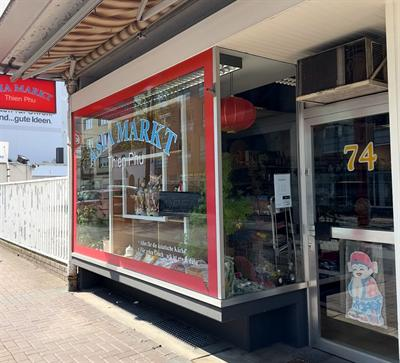
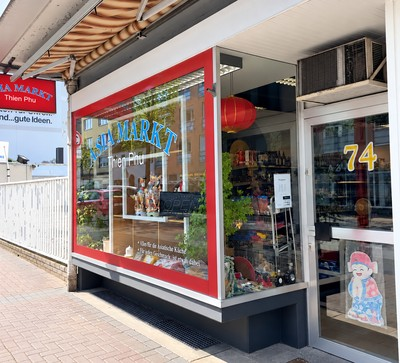
Aktualisiere Sortimentsbeispiele und freigegebene Ladenfotos

diff --git a/sortiment.html b/sortiment.html
@@ -8,20 +8,20 @@
     <meta name="referrer" content="strict-origin-when-cross-origin">
 
     <title>Asiatisches Sortiment in Langenfeld | Asia Markt Thien Phu</title>
-    <meta name="description" content="Das Sortiment des Asia Markt Thien Phu in Langenfeld (Rheinland): frische Kräuter &amp; Gemüse, Nudeln &amp; Ramen, Saucen, Tofu, Tee, Snacks und Tiefkühlprodukte.">
+    <meta name="description" content="Asiatisches Sortiment in Langenfeld: frische Kräuter und Tofu, Reis, Buldak und Shin Ramyun, Currypasten, Gochujang, Mochi, Matcha und tiefgekühlte Gyoza.">
     <link rel="canonical" href="https://www.asiamarkt.info/sortiment.html">
 
     <meta name="theme-color" content="#FFFBF5">
-    <link rel="icon" href="/favicon.ico?v=2026092405" sizes="16x16 32x32 48x48">
-    <link rel="icon" type="image/png" sizes="192x192" href="/assets/images/icon-192.png?v=2026092405">
-    <link rel="apple-touch-icon" href="/assets/images/apple-touch-icon.png?v=2026092405">
-    <link rel="manifest" href="/site.webmanifest?v=2026092405">
+    <link rel="icon" href="/favicon.ico?v=2026102201" sizes="16x16 32x32 48x48">
+    <link rel="icon" type="image/png" sizes="192x192" href="/assets/images/icon-192.png?v=2026102201">
+    <link rel="apple-touch-icon" href="/assets/images/apple-touch-icon.png?v=2026102201">
+    <link rel="manifest" href="/site.webmanifest?v=2026102201">
 
     <meta property="og:type" content="website">
     <meta property="og:site_name" content="Asia Markt Thien Phu">
     <meta property="og:locale" content="de_DE">
     <meta property="og:title" content="Asiatisches Sortiment in Langenfeld | Asia Markt Thien Phu">
-    <meta property="og:description" content="Das Sortiment des Asia Markt Thien Phu in Langenfeld (Rheinland): frische Kräuter &amp; Gemüse, Nudeln &amp; Ramen, Saucen, Tofu, Tee, Snacks und Tiefkühlprodukte.">
+    <meta property="og:description" content="Asiatisches Sortiment in Langenfeld: frische Kräuter und Tofu, Reis, Buldak und Shin Ramyun, Currypasten, Gochujang, Mochi, Matcha und tiefgekühlte Gyoza.">
     <meta property="og:url" content="https://www.asiamarkt.info/sortiment.html">
     <meta property="og:image" content="https://www.asiamarkt.info/assets/images/og-image.jpg">
     <meta property="og:image:width" content="1200">
@@ -29,10 +29,10 @@
     <meta name="twitter:card" content="summary_large_image">
 
     <link rel="preload" as="font" type="font/woff2" href="assets/fonts/lora-700-latin.woff2" crossorigin>
-    <link rel="stylesheet" href="assets/css/fonts.css?v=2026092405">
-    <link rel="stylesheet" href="assets/css/site.css?v=2026092405">
+    <link rel="stylesheet" href="assets/css/fonts.css?v=2026102201">
+    <link rel="stylesheet" href="assets/css/site.css?v=2026102201">
 
-    <script src="assets/js/site.js?v=2026092405" defer></script>
+    <script src="assets/js/site.js?v=2026102201" defer></script>
     <!-- Statische Mobilnavigation bei deaktiviertem JavaScript, ohne Lade-Sprung. -->
     <noscript><style>
         @media (max-width: 900px) {
@@ -83,7 +83,7 @@
 
     <section class="sortiment-kopf">
         <h1>Unser Sortiment</h1>
-        <p class="lead">Frische Zutaten, Nudeln, Saucen und vieles mehr für Ihre asiatische Küche. Die Auswahl kann wechseln.</p>
+        <p class="lead">Von frischen Kräutern und Reis bis zu koreanischen Ramen, Mochi und Gyoza: Zutaten für Ihre asiatische Küche. Die Auswahl kann wechseln.</p>
         <p class="verfuegbarkeit">Einen bestimmten Artikel gesucht? <a href="tel:+4921731065590">Rufen Sie kurz an, wir schauen nach.</a></p>
     </section>
 
@@ -91,27 +91,27 @@
         <div>
             <section class="warengruppe" id="frisches">
                 <h2>Frische Kräuter, Gemüse und Tofu</h2>
-                <p>Koriander, Thai-Basilikum, Zitronengras, Wasserspinat, Ingwer, grüne Papaya und Thai-Auberginen. Dazu Edamame, Enoki-Pilze, Süßkartoffeln, Yamswurzeln, Kochbananen und Pandanblätter sowie frischer und Silken Tofu. Regelmäßige Frischlieferungen.</p>
+                <p>Koriander, Thai-Basilikum, Krapao, Zitronengras, Galgant, Wasserspinat und Ingwer. Dazu grüne Papaya, Thai-Auberginen, Okra, Chili, Enoki-Pilze, Süßkartoffeln, Yamswurzeln, Kochbananen und Pandanblätter sowie frischer Tofu und Seidentofu. Regelmäßige Frischlieferungen.</p>
             </section>
             <section class="warengruppe" id="nudeln">
-                <h2>Nudeln und Ramen</h2>
-                <p>Bekannte Marken wie SamYang und Mama, dazu Udon, Ramen, Reis- und Glasnudeln für schnelle Alltagsgerichte und Suppen.</p>
+                <h2>Reis, Nudeln und Ramen</h2>
+                <p>Samyang Buldak, etwa Carbonara und Cheese, Nongshim Shin Ramyun und MAMA. Dazu Udon, Reis- und Glasnudeln für schnelle Gerichte und Suppen, Reispapier für Sommerrollen sowie Jasmin-, Sushi- und Klebreis.</p>
             </section>
             <section class="warengruppe" id="saucen">
                 <h2>Saucen und Würzmittel</h2>
-                <p>Sojasoße, Teriyaki, Fischsauce und Currypasten, passend für Wokgerichte, Marinaden und Dips.</p>
+                <p>Sojasauce, Teriyaki, Fischsauce, Hoisin und Sriracha, dazu Currypasten, Gochujang (koreanische Chilipaste), Kimchi und Kokosmilch. Für Wokgerichte, Currys, Marinaden und Dips.</p>
             </section>
             <section class="warengruppe" id="getraenke">
                 <h2>Tee und Getränke</h2>
-                <p>Grüner Tee, Jasmintee und beliebte asiatische Erfrischungsgetränke.</p>
+                <p>Grüner Tee, Jasmintee, Grünteepulver mit Matcha und Matcha Latte. Dazu Kokoswasser und FOCO-Getränke mit Kokos, Mango oder Litschi.</p>
             </section>
             <section class="warengruppe" id="snacks">
                 <h2>Snacks und Süßigkeiten</h2>
-                <p>Mochi, Reiscracker und asiatische Süßigkeiten.</p>
+                <p>Mochi, zum Beispiel mit Matcha, Erdnuss oder roter Bohne. Dazu Reiscracker, Algensnacks, getrocknete Mango und weitere asiatische Süßigkeiten.</p>
             </section>
             <section class="warengruppe" id="tiefkuehl">
                 <h2>Tiefkühlprodukte</h2>
-                <p>Fisch, Garnelen, Muscheln und Tintenfisch. Fisch-, Rind- und Schweinebällchen sowie Gyoza für Hot Pot, Suppen und Pfannengerichte.</p>
+                <p>Gyoza von bibigo und Allgroo, Edamame und Mochi-Eis. Dazu Fisch, Garnelen, Muscheln, Tintenfisch sowie Fisch-, Rind- und Schweinebällchen für Hot Pot, Suppen und Pfannengerichte.</p>
             </section>
         </div>
         <p class="zeiten-hinweis">Nur Beispiele, im Laden steht mehr. Kein Online-Shop, alles gibt es vor Ort.</p>

diff --git a/index.html b/index.html
@@ -16,10 +16,10 @@
 
     <!-- Favicons & technische Meta -->
     <meta name="theme-color" content="#FFFBF5">
-    <link rel="icon" href="/favicon.ico?v=2026092405" sizes="16x16 32x32 48x48">
-    <link rel="icon" type="image/png" sizes="192x192" href="/assets/images/icon-192.png?v=2026092405">
-    <link rel="apple-touch-icon" href="/assets/images/apple-touch-icon.png?v=2026092405">
-    <link rel="manifest" href="/site.webmanifest?v=2026092405">
+    <link rel="icon" href="/favicon.ico?v=2026102201" sizes="16x16 32x32 48x48">
+    <link rel="icon" type="image/png" sizes="192x192" href="/assets/images/icon-192.png?v=2026102201">
+    <link rel="apple-touch-icon" href="/assets/images/apple-touch-icon.png?v=2026102201">
+    <link rel="manifest" href="/site.webmanifest?v=2026102201">
 
     <!-- Open Graph / Twitter Card -->
     <meta property="og:type" content="website">
@@ -78,10 +78,10 @@
     </script>
 
     <link rel="preload" as="font" type="font/woff2" href="assets/fonts/lora-700-latin.woff2" crossorigin>
-    <link rel="stylesheet" href="assets/css/fonts.css?v=2026092405">
-    <link rel="stylesheet" href="assets/css/site.css?v=2026092405">
+    <link rel="stylesheet" href="assets/css/fonts.css?v=2026102201">
+    <link rel="stylesheet" href="assets/css/site.css?v=2026102201">
 
-    <script src="assets/js/site.js?v=2026092405" defer></script>
+    <script src="assets/js/site.js?v=2026102201" defer></script>
     <!-- Statische Mobilnavigation bei deaktiviertem JavaScript, ohne Lade-Sprung. -->
     <noscript><style>
         @media (max-width: 900px) {
@@ -186,32 +186,32 @@
     <section class="bahn sortiment-vorschau">
         <div>
             <h2>Das führen wir</h2>
-            <p class="sortiment-einleitung">Sechs Bereiche. Die ganze Liste steht im Sortiment.</p>
+            <p class="sortiment-einleitung">Von frischen Kräutern bis zu koreanischen Ramen. Mehr Beispiele finden Sie im Sortiment.</p>
         </div>
         <div class="kategorien">
             <div>
                 <p class="titel">Frische Kräuter, Gemüse und Tofu</p>
-                <p class="bsp">Koriander, Zitronengras, Pak Choi, Ingwer, Tofu</p>
+                <p class="bsp">Koriander, Thai-Basilikum, Zitronengras, Pak Choi, Ingwer, Tofu</p>
             </div>
             <div>
-                <p class="titel">Nudeln und Ramen</p>
-                <p class="bsp">SamYang, Mama, Udon, Reis- und Glasnudeln</p>
+                <p class="titel">Reis, Nudeln und Ramen</p>
+                <p class="bsp">Buldak, Shin Ramyun, MAMA, Udon, Reis- und Glasnudeln, Jasminreis</p>
             </div>
             <div>
                 <p class="titel">Saucen und Würzmittel</p>
-                <p class="bsp">Soja, Fischsauce, Currypasten, Teriyaki</p>
+                <p class="bsp">Sojasauce, Fischsauce, Currypasten, Teriyaki, Sriracha, Gochujang</p>
             </div>
             <div>
                 <p class="titel">Tee und Getränke</p>
-                <p class="bsp">Grüner Tee, Jasmintee, asiatische Erfrischungen</p>
+                <p class="bsp">Grüner Tee, Jasmintee, Matcha Latte, Kokoswasser, FOCO-Getränke</p>
             </div>
             <div>
                 <p class="titel">Snacks und Süßigkeiten</p>
-                <p class="bsp">Mochi, Reiscracker, asiatische Süßigkeiten</p>
+                <p class="bsp">Mochi, Reiscracker, Algensnacks, asiatische Süßigkeiten</p>
             </div>
             <div>
                 <p class="titel">Tiefkühlprodukte</p>
-                <p class="bsp">Garnelen, Muscheln, Gyoza, Fischbällchen</p>
+                <p class="bsp">Garnelen, Muscheln, Gyoza, Fischbällchen, Edamame, Mochi-Eis</p>
             </div>
         </div>
         <p class="sortiment-link"><a href="sortiment.html">Zum ganzen Sortiment</a></p>
@@ -247,17 +247,17 @@
 
     <section class="bahn laden-einblicke">
         <div class="galerie-2">
-            <img src="assets/images/schaufenster.jpg" width="1200" height="750" class="foto foto-16-10"
-                 srcset="assets/images/schaufenster-480.jpg 480w,
-                         assets/images/schaufenster-800.jpg 800w,
-                         assets/images/schaufenster.jpg 1200w"
+            <img src="assets/images/ladenraum.jpg" width="1200" height="750" class="foto foto-16-10"
+                 srcset="assets/images/ladenraum-480.jpg 480w,
+                         assets/images/ladenraum-800.jpg 800w,
+                         assets/images/ladenraum.jpg 1200w"
                  sizes="(max-width: 760px) calc(100vw - 44px), 672px"
-                 alt="Schaufenster des Asia Markt Thien Phu aus der Nähe, mit roten Lampions und dem Schriftzug ASIA MARKT Thien Phu"
+                 alt="Blick in den Verkaufsraum mit gefüllten Warenregalen und den Tiefkühltruhen in der Mitte"
                  loading="lazy" decoding="async">
-            <img src="assets/images/laden-eingang.jpg" width="1200" height="1089" class="foto foto-eingang"
-                 srcset="assets/images/laden-eingang-400.jpg 400w,
-                         assets/images/laden-eingang-700.jpg 700w,
-                         assets/images/laden-eingang.jpg 1200w"
+            <img src="assets/images/laden-eingang.jpg?v=2026102201" width="1200" height="1089" class="foto foto-eingang"
+                 srcset="assets/images/laden-eingang-400.jpg?v=2026102201 400w,
+                         assets/images/laden-eingang-700.jpg?v=2026102201 700w,
+                         assets/images/laden-eingang.jpg?v=2026102201 1200w"
                  sizes="(max-width: 760px) calc(100vw - 44px), 464px"
                  alt="Eingang des Asia Markt Thien Phu an der Hauptstraße 74"
                  loading="lazy" decoding="async">

diff --git a/ueber-uns.html b/ueber-uns.html
@@ -12,10 +12,10 @@
     <link rel="canonical" href="https://www.asiamarkt.info/ueber-uns.html">
 
     <meta name="theme-color" content="#FFFBF5">
-    <link rel="icon" href="/favicon.ico?v=2026092405" sizes="16x16 32x32 48x48">
-    <link rel="icon" type="image/png" sizes="192x192" href="/assets/images/icon-192.png?v=2026092405">
-    <link rel="apple-touch-icon" href="/assets/images/apple-touch-icon.png?v=2026092405">
-    <link rel="manifest" href="/site.webmanifest?v=2026092405">
+    <link rel="icon" href="/favicon.ico?v=2026102201" sizes="16x16 32x32 48x48">
+    <link rel="icon" type="image/png" sizes="192x192" href="/assets/images/icon-192.png?v=2026102201">
+    <link rel="apple-touch-icon" href="/assets/images/apple-touch-icon.png?v=2026102201">
+    <link rel="manifest" href="/site.webmanifest?v=2026102201">
 
     <meta property="og:type" content="website">
     <meta property="og:site_name" content="Asia Markt Thien Phu">
@@ -29,10 +29,10 @@
     <meta name="twitter:card" content="summary_large_image">
 
     <link rel="preload" as="font" type="font/woff2" href="assets/fonts/lora-700-latin.woff2" crossorigin>
-    <link rel="stylesheet" href="assets/css/fonts.css?v=2026092405">
-    <link rel="stylesheet" href="assets/css/site.css?v=2026092405">
+    <link rel="stylesheet" href="assets/css/fonts.css?v=2026102201">
+    <link rel="stylesheet" href="assets/css/site.css?v=2026102201">
 
-    <script src="assets/js/site.js?v=2026092405" defer></script>
+    <script src="assets/js/site.js?v=2026102201" defer></script>
     <!-- Statische Mobilnavigation bei deaktiviertem JavaScript, ohne Lade-Sprung. -->
     <noscript><style>
         @media (max-width: 900px) {
@@ -86,10 +86,10 @@
             <h1>Der Laden</h1>
             <p class="laden-einleitung">Seit 2007 an der Hauptstraße. Ein Familienbetrieb, kein Filialist.</p>
         </div>
-        <img src="assets/images/laden-eingang.jpg" width="1200" height="1089" class="foto foto-eingang"
-             srcset="assets/images/laden-eingang-400.jpg 400w,
-                     assets/images/laden-eingang-700.jpg 700w,
-                     assets/images/laden-eingang.jpg 1200w"
+        <img src="assets/images/laden-eingang.jpg?v=2026102201" width="1200" height="1089" class="foto foto-eingang"
+             srcset="assets/images/laden-eingang-400.jpg?v=2026102201 400w,
+                     assets/images/laden-eingang-700.jpg?v=2026102201 700w,
+                     assets/images/laden-eingang.jpg?v=2026102201 1200w"
              sizes="(max-width: 980px) calc(100vw - 44px), 480px"
              alt="Eingang und Schaufenster des Asia Markt Thien Phu an der Hauptstraße 74"
              loading="eager" decoding="async" fetchpriority="high">

diff --git a/datenschutz.html b/datenschutz.html
@@ -14,10 +14,10 @@
     <link rel="canonical" href="https://www.asiamarkt.info/datenschutz.html">
     <!-- Favicons & technische Meta -->
     <meta name="theme-color" content="#FDFBF7">
-    <link rel="icon" href="/favicon.ico?v=2026092405" sizes="16x16 32x32 48x48">
-    <link rel="icon" type="image/png" sizes="192x192" href="/assets/images/icon-192.png?v=2026092405">
-    <link rel="apple-touch-icon" href="/assets/images/apple-touch-icon.png?v=2026092405">
-    <link rel="manifest" href="/site.webmanifest?v=2026092405">
+    <link rel="icon" href="/favicon.ico?v=2026102201" sizes="16x16 32x32 48x48">
+    <link rel="icon" type="image/png" sizes="192x192" href="/assets/images/icon-192.png?v=2026102201">
+    <link rel="apple-touch-icon" href="/assets/images/apple-touch-icon.png?v=2026102201">
+    <link rel="manifest" href="/site.webmanifest?v=2026102201">
     <!-- Open Graph / Twitter Card -->
     <meta property="og:type" content="website">
     <meta property="og:site_name" content="Asia Markt Thien Phu">
@@ -68,10 +68,10 @@
     }
     </script>
     <link rel="preload" as="font" type="font/woff2" href="assets/fonts/lora-700-latin.woff2" crossorigin>
-    <link rel="stylesheet" href="assets/css/fonts.css?v=2026092405">
-    <link rel="stylesheet" href="assets/css/site.css?v=2026092405">
+    <link rel="stylesheet" href="assets/css/fonts.css?v=2026102201">
+    <link rel="stylesheet" href="assets/css/site.css?v=2026102201">
 
-    <script src="assets/js/site.js?v=2026092405" defer></script>
+    <script src="assets/js/site.js?v=2026102201" defer></script>
     <!-- Statische Mobilnavigation bei deaktiviertem JavaScript, ohne Lade-Sprung. -->
     <noscript><style>
         @media (max-width: 900px) {

diff --git a/impressum.html b/impressum.html
@@ -14,10 +14,10 @@
     <link rel="canonical" href="https://www.asiamarkt.info/impressum.html">
     <!-- Favicons & technische Meta -->
     <meta name="theme-color" content="#FDFBF7">
-    <link rel="icon" href="/favicon.ico?v=2026092405" sizes="16x16 32x32 48x48">
-    <link rel="icon" type="image/png" sizes="192x192" href="/assets/images/icon-192.png?v=2026092405">
-    <link rel="apple-touch-icon" href="/assets/images/apple-touch-icon.png?v=2026092405">
-    <link rel="manifest" href="/site.webmanifest?v=2026092405">
+    <link rel="icon" href="/favicon.ico?v=2026102201" sizes="16x16 32x32 48x48">
+    <link rel="icon" type="image/png" sizes="192x192" href="/assets/images/icon-192.png?v=2026102201">
+    <link rel="apple-touch-icon" href="/assets/images/apple-touch-icon.png?v=2026102201">
+    <link rel="manifest" href="/site.webmanifest?v=2026102201">
     <!-- Open Graph / Twitter Card -->
     <meta property="og:type" content="website">
     <meta property="og:site_name" content="Asia Markt Thien Phu">
@@ -68,10 +68,10 @@
     }
     </script>
     <link rel="preload" as="font" type="font/woff2" href="assets/fonts/lora-700-latin.woff2" crossorigin>
-    <link rel="stylesheet" href="assets/css/fonts.css?v=2026092405">
-    <link rel="stylesheet" href="assets/css/site.css?v=2026092405">
+    <link rel="stylesheet" href="assets/css/fonts.css?v=2026102201">
+    <link rel="stylesheet" href="assets/css/site.css?v=2026102201">
 
-    <script src="assets/js/site.js?v=2026092405" defer></script>
+    <script src="assets/js/site.js?v=2026102201" defer></script>
     <!-- Statische Mobilnavigation bei deaktiviertem JavaScript, ohne Lade-Sprung. -->
     <noscript><style>
         @media (max-width: 900px) {

diff --git a/kontakt.html b/kontakt.html
@@ -12,10 +12,10 @@
     <link rel="canonical" href="https://www.asiamarkt.info/kontakt.html">
 
     <meta name="theme-color" content="#FFFBF5">
-    <link rel="icon" href="/favicon.ico?v=2026092405" sizes="16x16 32x32 48x48">
-    <link rel="icon" type="image/png" sizes="192x192" href="/assets/images/icon-192.png?v=2026092405">
-    <link rel="apple-touch-icon" href="/assets/images/apple-touch-icon.png?v=2026092405">
-    <link rel="manifest" href="/site.webmanifest?v=2026092405">
+    <link rel="icon" href="/favicon.ico?v=2026102201" sizes="16x16 32x32 48x48">
+    <link rel="icon" type="image/png" sizes="192x192" href="/assets/images/icon-192.png?v=2026102201">
+    <link rel="apple-touch-icon" href="/assets/images/apple-touch-icon.png?v=2026102201">
+    <link rel="manifest" href="/site.webmanifest?v=2026102201">
 
     <meta property="og:type" content="website">
     <meta property="og:site_name" content="Asia Markt Thien Phu">
@@ -65,10 +65,10 @@
     </script>
 
     <link rel="preload" as="font" type="font/woff2" href="assets/fonts/lora-700-latin.woff2" crossorigin>
-    <link rel="stylesheet" href="assets/css/fonts.css?v=2026092405">
-    <link rel="stylesheet" href="assets/css/site.css?v=2026092405">
+    <link rel="stylesheet" href="assets/css/fonts.css?v=2026102201">
+    <link rel="stylesheet" href="assets/css/site.css?v=2026102201">
 
-    <script src="assets/js/site.js?v=2026092405" defer></script>
+    <script src="assets/js/site.js?v=2026102201" defer></script>
     <!-- Statische Mobilnavigation bei deaktiviertem JavaScript, ohne Lade-Sprung. -->
     <noscript><style>
         @media (max-width: 900px) {

diff --git a/route.html b/route.html
@@ -21,7 +21,7 @@
 
     <title>Route wird geöffnet | Asia Markt Thien Phu</title>
     <meta name="theme-color" content="#FFFBF5">
-    <link rel="icon" href="/favicon.ico?v=2026092405" sizes="16x16 32x32 48x48">
+    <link rel="icon" href="/favicon.ico?v=2026102201" sizes="16x16 32x32 48x48">
 
     <style>
         :root {
